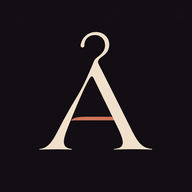
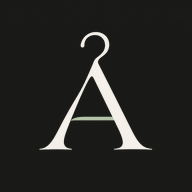
Icona nei colori dell'app (#75)
* Rifinitura UI: banner Google una tantum, Guardaroba, ingressi Aggiungi più semplici, fondale Ispirazione

Claude-Session: https://claude.ai/code/session_013V1PHqaeoaw5GZh4aRDxzy

* Pagina unica su telefono: tutte le sezioni principali in un solo scorrimento

Claude-Session: https://claude.ai/code/session_013V1PHqaeoaw5GZh4aRDxzy

* Selettore lingua IT | EN: evidenzia la lingua attuale

Claude-Session: https://claude.ai/code/session_013V1PHqaeoaw5GZh4aRDxzy

* Foto capi uniformi (ritaglio automatico anche su sfondi sfumati), pulsanti Ispirazione ordinati

Claude-Session: https://claude.ai/code/session_013V1PHqaeoaw5GZh4aRDxzy

* Pagine separate su telefono, interfaccia minimal e nuova icona (abito stilizzato)

Claude-Session: https://claude.ai/code/session_013V1PHqaeoaw5GZh4aRDxzy

* Ancora più minimal: via banner account, meteo e impegni in pagina, statistiche e strumenti, opzioni accessorie

Claude-Session: https://claude.ai/code/session_013V1PHqaeoaw5GZh4aRDxzy

* Rimuove il riferimento alla pagina unica

Claude-Session: https://claude.ai/code/session_013V1PHqaeoaw5GZh4aRDxzy

* Guardaroba per tipologia, look compatti e apribili, pulsanti Ispirazione affiancati

Claude-Session: https://claude.ai/code/session_013V1PHqaeoaw5GZh4aRDxzy

* Palette Brown, Cream, Baby Blue (chiaro e scuro) e nuova icona in tinta

Claude-Session: https://claude.ai/code/session_013V1PHqaeoaw5GZh4aRDxzy

* Fondali dei capi più neutri (greige chiaro, marrone-grigio scuro)
[…]

Changed region(s): [[0.2188, 0.2812, 0.7812, 0.8125], [0.4062, 0.1562, 0.5938, 0.2812]]

diff --git a/sw.js b/sw.js
@@ -1,5 +1,5 @@
 /* ATELIER — service worker: apre l'app anche senza rete, i dati restano sul dispositivo */
-const CACHE = 'atelier-v72';
+const CACHE = 'atelier-v73';
 const SHELL = ['/', '/index.html', '/manifest.json', '/icons/icon-192.png', '/icons/icon-512.png', '/icons/apple-touch-icon.png', '/fonts/cormorant-garamond-latin-600-normal.woff2', '/style.css', '/atelier-premium.css', '/atelier-v3.css', '/atelier-v3-features.css', '/atelier-ios.css', '/atelier-theme.css', '/atelier-minimal.css', '/atelier-palette.css', '/atelier-v2.css', '/atelier-euganeo.css', '/atelier-prada.css', '/atelier-editorial.css', '/atelier-reference.css', '/atelier-final.css', '/assets/prada/nylon-jacket.webp', '/assets/prada/poplin-shirt.webp', '/assets/prada/tailored-trousers.webp', '/assets/prada/leather-loafers.webp', '/atelier-v3-layout.js', '/app.js', '/wardrobe-experience.js', '/atelier-tools.js', '/plan.js', '/atelier-v3-features.js', '/atelier-v3-week.js', '/drive-sync.js', '/atelier-i18n.js', '/atelier-ios.js', '/atelier-studio.js', '/atelier-feel.js', '/atelier-theme.js', '/atelier-minimal.js', '/atelier-v2.js', '/atelier-euganeo.js', '/atelier-editorial.js', '/atelier-reference.js', '/icons/icon-maskable-512.png', '/fonts/cormorant-garamond-latin-500-normal.woff2'];
 
 self.addEventListener('install', e => {
